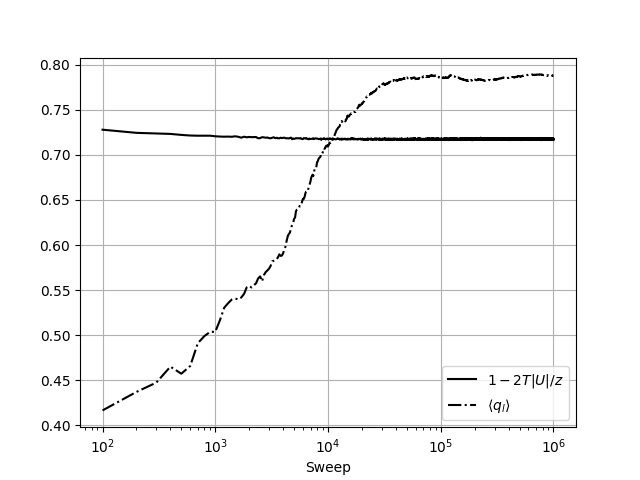
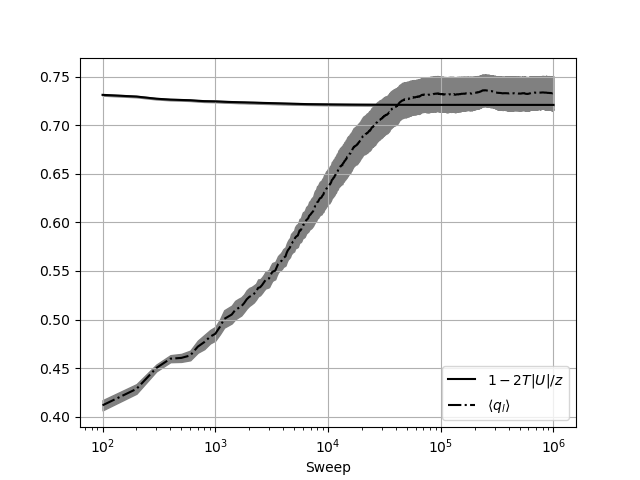
plotting for multiple input files with mean and standard error

diff --git a/python_evaluation/katzgraber/main.py b/python_evaluation/katzgraber/main.py
@@ -3,7 +3,7 @@ import pandas as pd
 from pathlib import Path
 import re
 import matplotlib
-#matplotlib.use('GTK4Agg')
+matplotlib.use('TkAgg')
 import matplotlib.pyplot as plt
 
 
@@ -16,21 +16,38 @@ def main():
         #calc_one_dir(results_path)
         filtered_data.append(pd.read_csv(results_path / 'T05_filtered_data.csv'))
     #print("BP")
-      
-    """filtered_data = pd.read_csv('./T05_filtered_data.csv')    """
-
-    """ plt.plot(av_data["run"]/1000, av_data["av_linked Overlapp"] )
-    plt.plot(av_data["run"]/1000, av_data["av_katz_energy"] )
-    plt.xlabel("Sweep")
-    plt.grid()
-    plt.show() """
+    
+    linked_overlapp = np.zeros((len(filtered_data[0]),len(filtered_data)))
+    katz_energy = np.zeros((len(filtered_data[0]),len(filtered_data)))
+    sweep = filtered_data[0]["run"].to_numpy()/1000;
+    for idx, df in enumerate(filtered_data):
+        linked_overlapp[:,idx]=filtered_data[idx]["av_linked_overlapp"]
+        katz_energy[:,idx]=filtered_data[idx]["av_katz_energy"]
+        
+    print("BP")
+    mean_katz = np.mean(katz_energy, axis=1)
+    mean_overlapp = np.mean(linked_overlapp, axis=1)
+    
+    
+    std_err_katz = np.std(katz_energy, axis=1) / np.sqrt(np.shape(katz_energy)[1])
+    std_err_overlapp = np.std(linked_overlapp, axis=1) / np.sqrt(np.shape(linked_overlapp)[1])
     
     fig = plt.figure()
     ax = fig.add_subplot(1,1,1)
-    ax.plot(filtered_data[1]["run"]/1000, filtered_data[1]["katz_energy"],
+    #marker, caps, bars=ax.errorbar(sweep,mean_katz, yerr= std_err_katz,
+    #         linestyle='solid', color='black', label = r'$1-2T|U|/z$' )
+    #[bar.set_alpha(0.5) for bar in bars]
+    #[cap.set_alpha(0.5) for cap in caps]
+    #marker, caps, bars=ax.errorbar(sweep,mean_overlapp, yerr= std_err_overlapp,
+    #         linestyle='dashdot', color='black', label = r'$\langle q_l \rangle$')
+    #[bar.set_alpha(0.5) for bar in bars]
+    #[cap.set_alpha(0.5) for cap in caps]
+    ax.plot(sweep,mean_katz,
              linestyle='solid', color='black', label = r'$1-2T|U|/z$' )
-    ax.plot(filtered_data[1]["run"]/1000, filtered_data[1]["av_linked_overlapp"],
+    ax.fill_between(sweep, mean_katz+std_err_katz,mean_katz-std_err_katz, color='gray')
+    ax.plot(sweep,mean_overlapp, 
              linestyle='dashdot', color='black', label = r'$\langle q_l \rangle$')
+    ax.fill_between(sweep, mean_overlapp+std_err_overlapp,mean_overlapp-std_err_overlapp, color='gray')
     ax.set_xlabel("Sweep")
     ax.legend(loc='lower right')
     ax.set_xscale('log')
